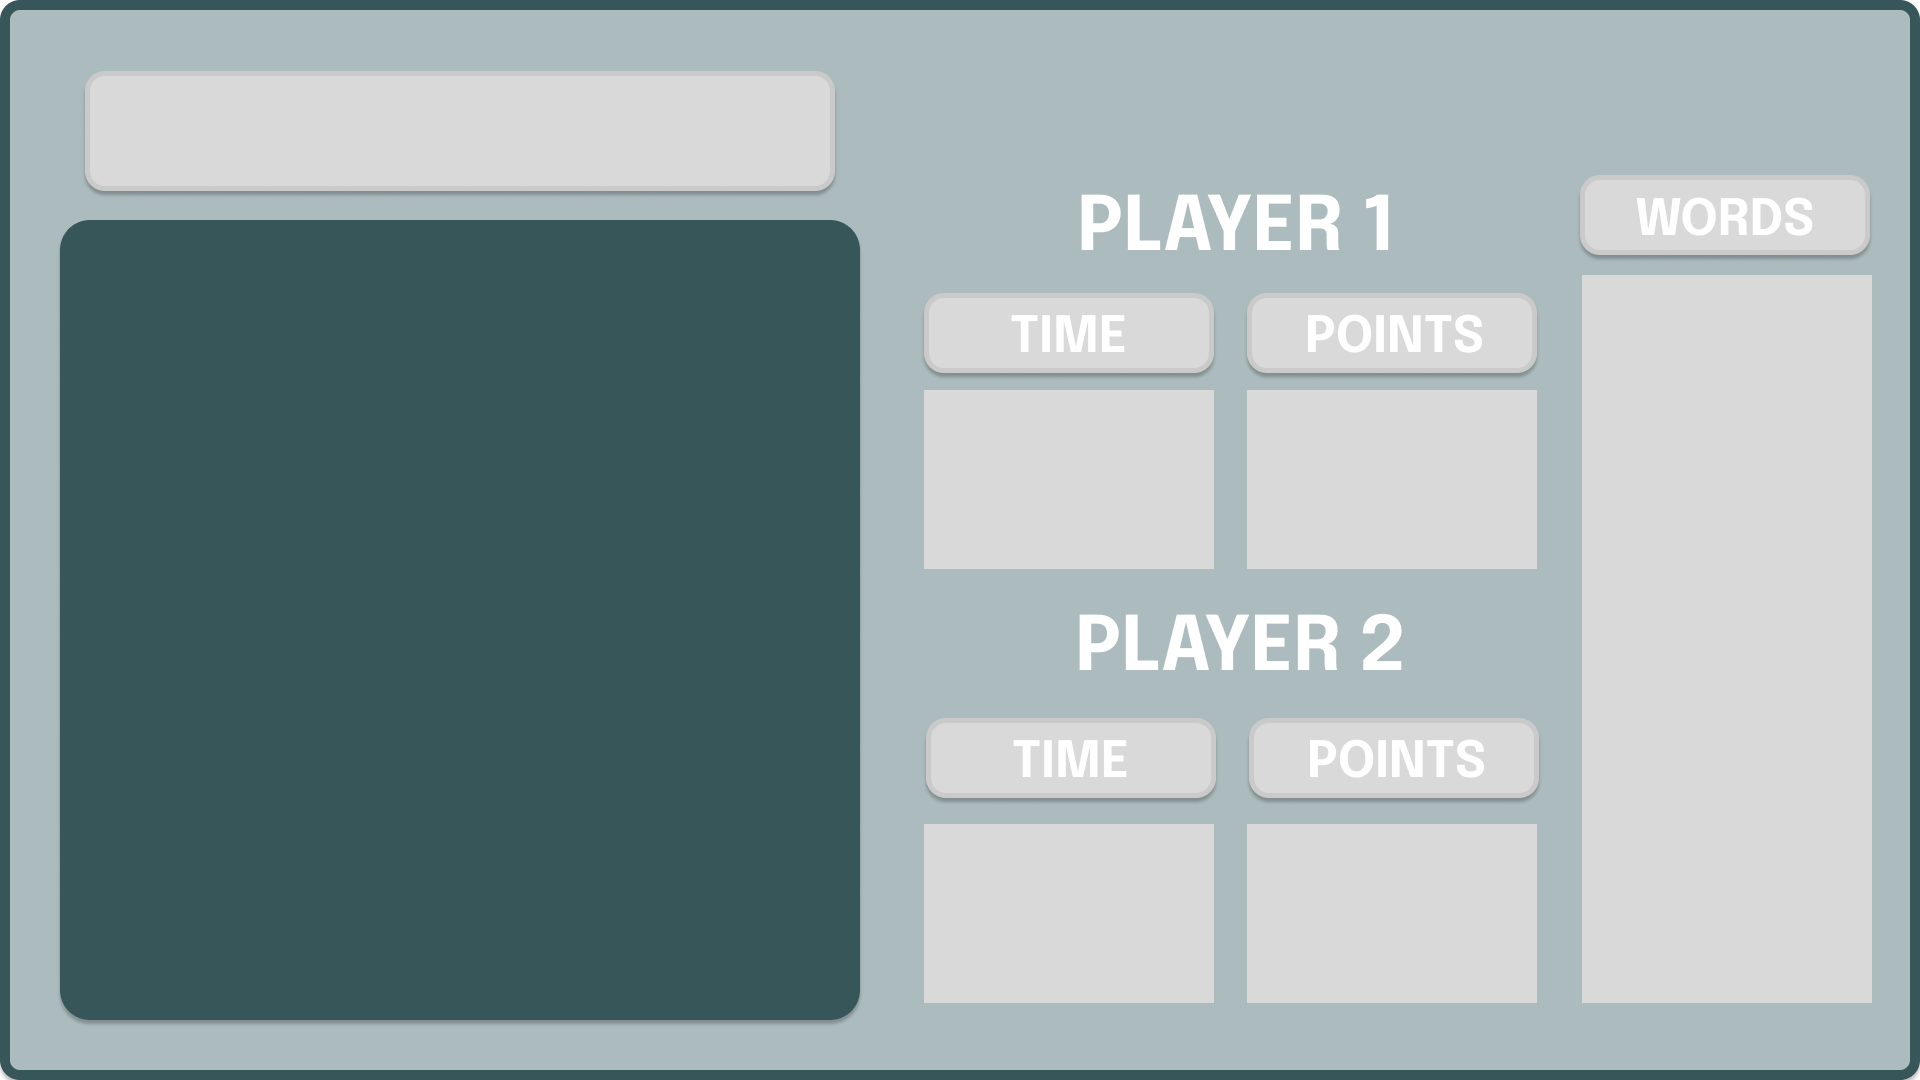
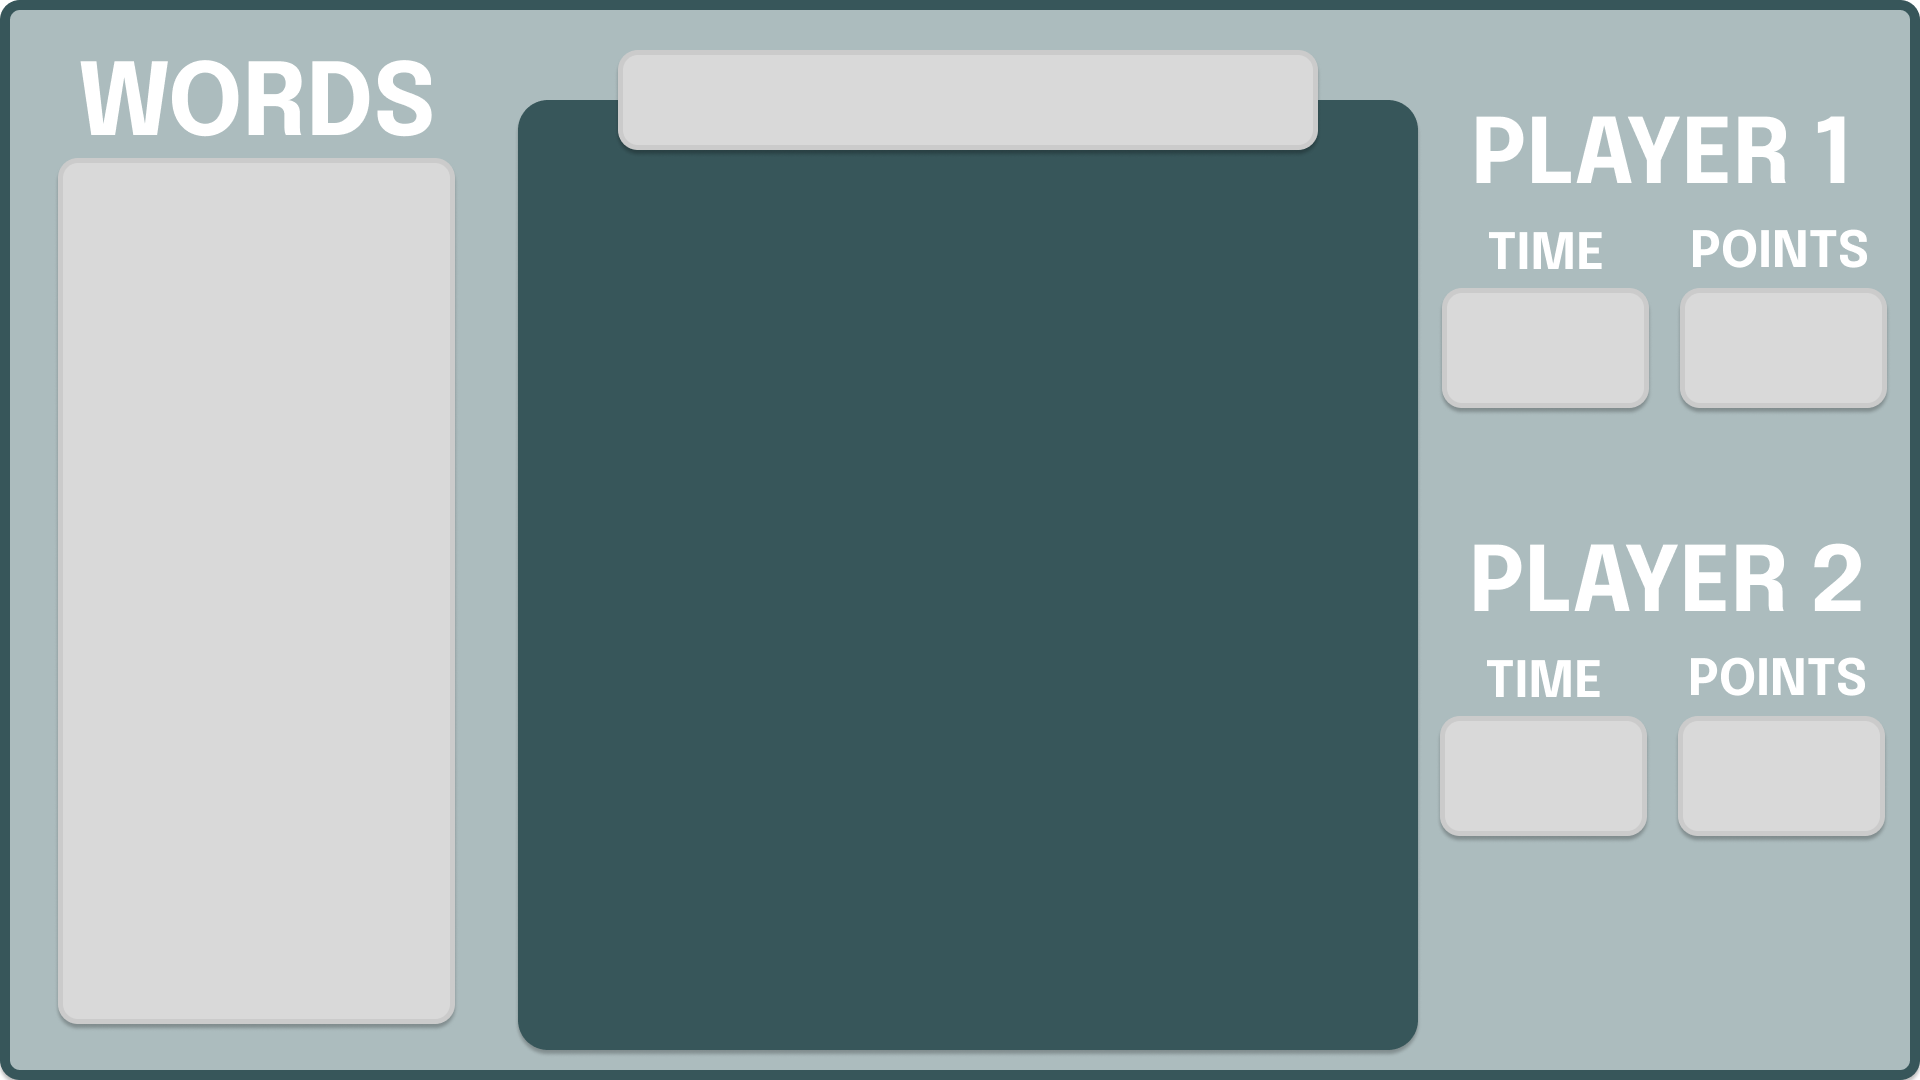
Continued working on GUI and started backend
- Created a Trie class, still needs to create the method to read the dictionary into it
- Tested GridBagLayout for positioning everything on the screen, still requires more work
- Created new GameScreen background for a bigger boggle screen

diff --git a/boggle/GameScreen.java b/boggle/GameScreen.java
@@ -1,11 +1,13 @@
 package boggle;
 
 import javax.swing.*;
+import javax.swing.border.LineBorder;
 import java.awt.*;
 
 public class GameScreen extends JPanel {
 	private JLayeredPane layers = new JLayeredPane();
 	private JLabel background = new JLabel();
+	private JPanel content = new JPanel();
 	private JLabel playerTurnInd = new JLabel();
 	private JLabel wordDisplay = new JLabel();
 	private JButton homeBtn = new JButton();
@@ -20,19 +22,50 @@ public class GameScreen extends JPanel {
 		int w = mainFrame.getScreenWidth(), h = mainFrame.getScreenHeight();
 
 		this.setBackground(Color.black);
-		this.setLayout(new BorderLayout());
+		this.setLayout(new GridBagLayout());
 		this.setBounds(0, 0, w, h);
+		this.setPreferredSize(new Dimension(w, h));
+		GridBagConstraints c = new GridBagConstraints();
 
-		layers.setBounds(0, 0, w, h);
-		layers.setLayout(new BorderLayout());
+		layers.setBackground(Color.black);
+//		layers.setLayout(new GridBagLayout());
+//		layers.setBounds(0, 0, w, h);
+		layers.setPreferredSize(new Dimension(w, h));
 
 		ImageIcon bg = new ImageIcon(getClass().getResource("assets/GameScreenBg.png"));
 		background.setIcon(new ImageIcon(bg.getImage().getScaledInstance(w, h, Image.SCALE_SMOOTH)));
 		background.setBounds(0, 0, w, h);
-		layers.add(background, BorderLayout.CENTER, 0);
+		background.setBackground(Color.black);
+		layers.add(background);
+		layers.setLayer(background, 0);
 
-		this.add(layers, BorderLayout.CENTER);
 
-		mainFrame.add(this);
+		content.setOpaque(false);
+		content.setBounds(0, 0, w, h);
+		content.setLayout(new GridBagLayout());
+//		content.setBackground(Color.gray);
+
+//		wordDisplay.setBounds(50, 1000, 1000, 500);
+		wordDisplay.setPreferredSize(new Dimension((int) (0.39 * w), (int) (0.111 * h)));
+		wordDisplay.setBorder(new LineBorder(Color.black, 5, true));
+		c = new GridBagConstraints();
+		c.anchor = GridBagConstraints.FIRST_LINE_START;
+//		c.ipadx = (int) (0.4427 * w);
+		c.insets = new Insets((int) (0.4427 * w), (int) (0.06574 * h), 0, 0);
+//		c.weightx = 0.1;
+//		c.weighty = 0.1;
+		content.add(wordDisplay, c);
+
+		layers.add(content);
+		layers.setLayer(content, 1);
+
+		c = new GridBagConstraints();
+		c.gridheight = h;
+		c.gridwidth = w;
+		c.gridx = Toolkit.getDefaultToolkit().getScreenSize().width / 2;
+		c.gridy = Toolkit.getDefaultToolkit().getScreenSize().height / 2;
+		this.add(layers, c);
+
+		mainFrame.setContentPane(this);
 	}
 }

diff --git a/boggle/Trie.java b/boggle/Trie.java
@@ -1,0 +1,31 @@
+package boggle;
+
+public class Trie {
+	private int[][] ch;
+	private boolean[] vis;
+	private int cnt;
+
+	public Trie(int N, int M) {
+		ch = new int[N][M];
+		vis = new boolean[N];
+	}
+
+	public void insert(String s) {
+		int p = 0;
+		for (int i = 0; i < s.length(); i++) {
+			int c = s.charAt(i) - 'a';
+			if (ch[p][c] == 0) ch[p][c] = ++cnt;
+			p = ch[p][c];
+		}
+		vis[p] = true;
+	}
+	public boolean query(String s) {
+		int p = 0;
+		for (int i = 0; i < s.length(); i++) {
+			int c = s.charAt(i) - 'a';
+			if (ch[p][c] == 0) return false;
+			p = ch[p][c];
+		}
+		return vis[p];
+	}
+}

diff --git a/boggle/MenuScreen.java b/boggle/MenuScreen.java
@@ -13,5 +13,6 @@ public class MenuScreen extends JPanel{
 		this.mainFrame = mainFrame;
 		this.setBounds(0, 0, mainFrame.getScreenWidth(), mainFrame.getScreenHeight());
 
+
 	}
 }
